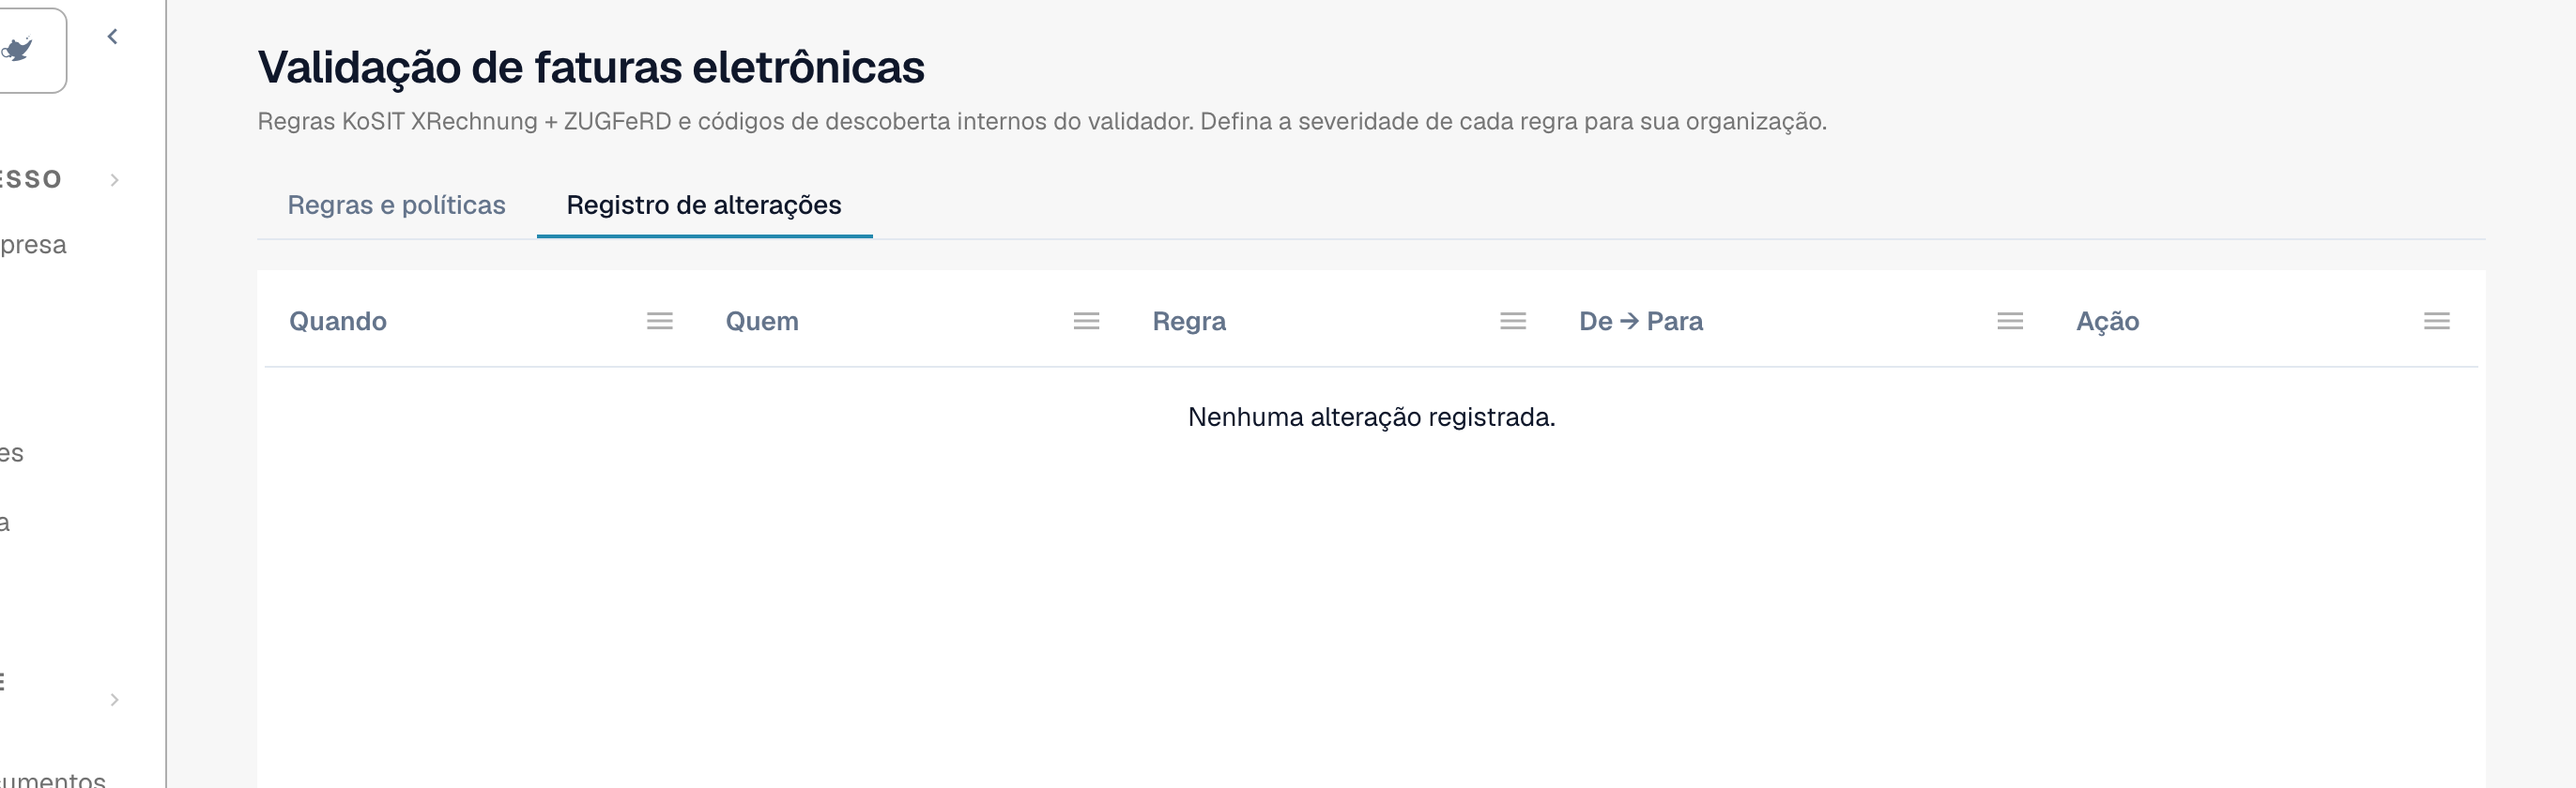
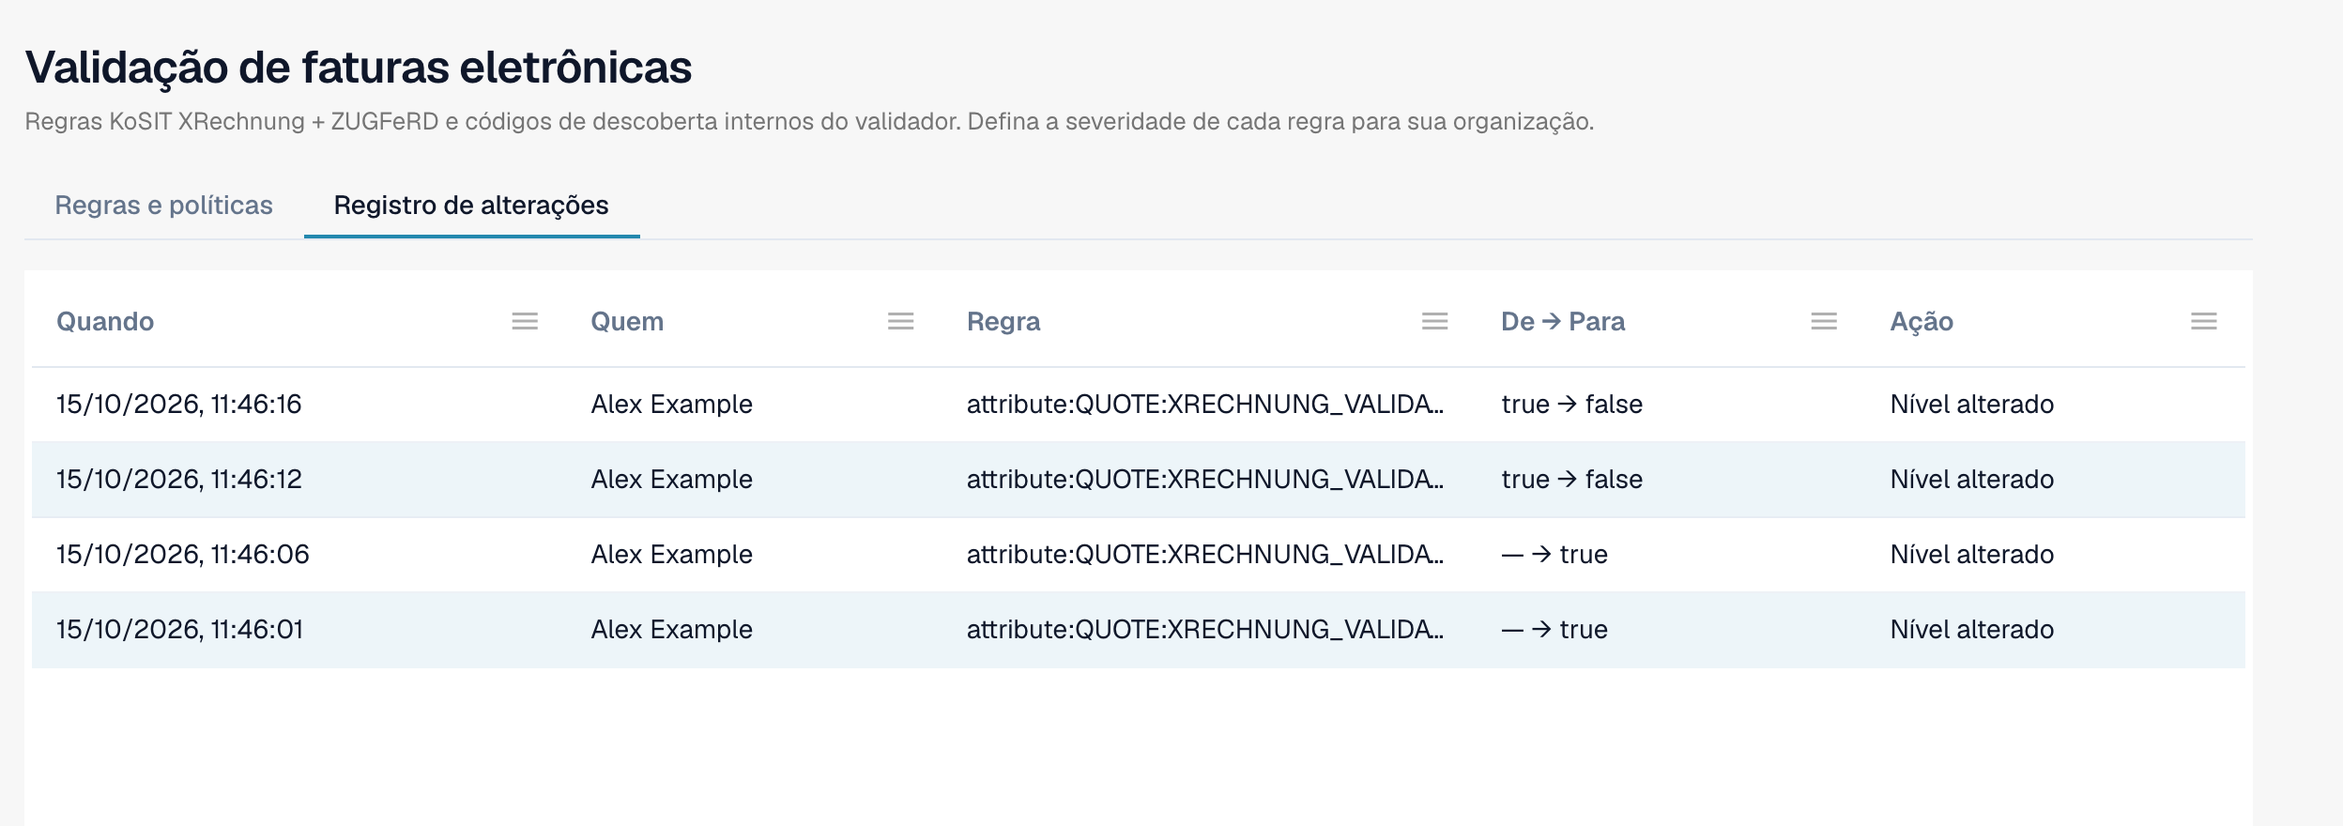
docs(pt): error screen page and change log screenshot (CORE-6410)
Claude-Session: https://claude.ai/code/session_01KNaeuhcTr3YU6A9NeVaSGs

diff --git a/readme/administration-and-setup/settings/document-processing/e-documents/validation-error-screen.md b/readme/administration-and-setup/settings/document-processing/e-documents/validation-error-screen.md
@@ -1,0 +1,52 @@
+# O ecrã de erro de uma fatura eletrónica rejeitada
+
+Quando carrega uma fatura eletrónica incorreta, o DocBits não a perde. O documento fica com o estado **Erro** e o ecrã de erro diz-lhe o que está errado, onde, e o que fazer a seguir. Esta página mostra dois exemplos: um ficheiro XML que não está bem formado e uma fatura que viola uma regra de negócio.
+
+> Uma fatura só fica com o estado **Erro** quando a validação está **ativada** e em **bloqueio** para o seu tipo de documento. Ver [Validação para cada tipo de documento](validation-per-document-type.md).
+
+## Exemplo 1: o ficheiro XML está danificado
+
+Um fornecedor envia um ficheiro XML em que uma etiqueta de fecho não corresponde à etiqueta de abertura. O ficheiro não pode ser lido, por isso o DocBits pára na primeira verificação, **L1 · Bem-formado**.
+
+<figure><img src="../../../../.gitbook/assets/einvoice-error-xml-malformed-pt.png" alt="O ecrã de erro de um ficheiro XML que não está bem formado: o XML à esquerda com a linha errada marcada, a explicação à direita"><figcaption><p>O ecrã de erro de um ficheiro XML danificado. A linha errada está marcada no XML. Ficheiro de exemplo com dados fictícios.</p></figcaption></figure>
+
+O ecrã tem dois lados:
+
+* **Esquerda: o ficheiro XML.** O DocBits mostra o ficheiro com números de linha. A linha com o problema está marcada a vermelho. Use os botões acima do ficheiro para copiar o XML ou abri-lo num novo separador.
+* **Direita: a explicação.** O cartão **Rejeitado por** indica a verificação que parou o ficheiro (aqui **L1 · Bem-formado**) e o código da regra (aqui `XML-PARSE`). Abaixo vê um título em linguagem simples (*XML is not well-formed*), uma explicação curta e o bloco **Próximo passo**.
+
+Selecione **Ver detalhes da validação** para abrir o [relatório de validação](validation-report.md) completo.
+
+<figure><img src="../../../../.gitbook/assets/einvoice-report-xml-malformed-pt.png" alt="O relatório de validação do ficheiro XML danificado com o resultado XML-PARSE"><figcaption><p>O relatório do ficheiro danificado: um erro no nível 1 Sintaxe, com a mensagem técnica e a posição</p></figcaption></figure>
+
+O relatório indica a posição exata (aqui linha 5, coluna 4081) e dá a mensagem técnica do analisador de XML. Selecione **Exibir em XML** para saltar para essa linha. A dica **Como consertar** diz-lhe para pedir ao remetente um ficheiro corrigido.
+
+## Exemplo 2: a fatura viola uma regra de negócio
+
+O XML está correto, mas falta um campo obrigatório. Por exemplo, o vendedor não pode ser identificado porque não existe identificador do vendedor, identificador de registo nem identificador de IVA (regra `BR-CO-26`).
+
+<figure><img src="../../../../.gitbook/assets/einvoice-error-view-pt.png" alt="O ecrã de erro de uma fatura que viola uma regra de negócio"><figcaption><p>O ecrã de erro de um erro de regra de negócio: a camada <strong>L3 · Regras de negócio</strong>, o código da regra e um próximo passo</p></figcaption></figure>
+
+Aqui o cartão indica a camada **L3 · Regras de negócio** e o código `BR-CO-26`. O relatório lista todos os resultados da fatura, ver [Relatório de validação](validation-report.md).
+
+## Os botões por baixo do cartão
+
+| Botão | O que faz |
+| --- | --- |
+| **Reiniciar processamento** | Executa de novo o processamento do documento, por exemplo depois de alterar uma definição. A verificação usa as definições atuais. |
+| **Visualizar DocFlow** | Mostra o fluxo de trabalho do documento. |
+| **Detalhes da cópia** | Copia os detalhes do erro, por exemplo para uma mensagem ao seu administrador. |
+| **Criar tíquete** | Abre um tíquete de suporte com os detalhes do erro. |
+
+Selecione **Mostrar detalhes técnicos** no cartão para ver a informação técnica em bruto.
+
+## O que fazer a seguir
+
+* **Erros:** peça ao remetente uma fatura corrigida ou [rejeite o documento](validation-next-step-and-reject.md). Uma fatura corrigida é um novo documento.
+* **Apenas avisos:** o documento não fica bloqueado. Pode continuar.
+
+## Páginas relacionadas
+
+* [Relatório de validação](validation-report.md): todos os resultados, nível a nível.
+* [Próximo passo e rejeitar um documento](validation-next-step-and-reject.md)
+* [Validação para cada tipo de documento](validation-per-document-type.md): ative a validação e defina o bloqueio.

diff --git a/readme/administration-and-setup/settings/document-processing/e-documents/validation-rules.md b/readme/administration-and-setup/settings/document-processing/e-documents/validation-rules.md
@@ -14,5 +14,6 @@ A página **Validação de faturas eletrônicas** (**Definições → Documentos
 | [Gravidade das regras](validation-rule-severities.md) | A tabela de regras: altere a gravidade de cada regra para a sua organização. | Administradores da organização |
 | [Validação para cada tipo de documento](validation-per-document-type.md) | Ative a validação (**Habilitado**) e decida se uma verificação falhada pára o documento (**Bloqueio**). Cada alteração precisa de confirmação. | Administradores da organização |
 | [Registo de alterações](validation-change-log.md) | Todas as alterações das definições: quando, quem, que regra, de → para. | Administradores da organização |
+| [O ecrã de erro de uma fatura eletrónica rejeitada](validation-error-screen.md) | O que o utilizador vê no documento quando uma fatura é rejeitada: o XML com a linha errada marcada, a camada e o código da regra, os botões e o próximo passo. | Todos os que processam faturas |
 | [Relatório de validação](validation-report.md) | O que o utilizador vê quando uma fatura falha: os resultados em linguagem simples. Abre-se a partir do documento, não desta página. | Todos os que processam faturas |
 | [Próximo passo e rejeitar um documento](validation-next-step-and-reject.md) | O que fazer depois de ler o relatório, transferências do relatório e **Rejeitar documento**. | Todos os que processam faturas |

diff --git a/readme/SUMMARY.md b/readme/SUMMARY.md
@@ -441,6 +441,7 @@
         * [Gravidade das regras](administration-and-setup/settings/document-processing/e-documents/validation-rule-severities.md)
         * [Validação para cada tipo de documento](administration-and-setup/settings/document-processing/e-documents/validation-per-document-type.md)
         * [Registo de alterações](administration-and-setup/settings/document-processing/e-documents/validation-change-log.md)
+        * [O ecrã de erro de uma fatura eletrónica rejeitada](administration-and-setup/settings/document-processing/e-documents/validation-error-screen.md)
         * [Relatório de validação](administration-and-setup/settings/document-processing/e-documents/validation-report.md)
         * [Próximo passo e rejeitar um documento](administration-and-setup/settings/document-processing/e-documents/validation-next-step-and-reject.md)
       * [Encaminhamento de notificações](administration-and-setup/settings/document-processing/e-documents/notification-routing.md)

diff --git a/readme/administration-and-setup/settings/document-processing/e-documents/validation-report.md b/readme/administration-and-setup/settings/document-processing/e-documents/validation-report.md
@@ -1,6 +1,6 @@
 # Relatório de validação
 
-Quando o DocBits rejeita uma fatura eletrónica, pode ler exatamente porquê. O **relatório de validação** lista cada resultado em linguagem simples, diz-lhe o que corrigir e mostra o próximo passo. Abre-o a partir do documento, não das definições.
+Quando o DocBits rejeita uma fatura eletrónica, pode ler exatamente porquê. O **relatório de validação** lista cada resultado em linguagem simples, diz-lhe o que corrigir e mostra o próximo passo. Abre-o a partir do documento, não das definições. O ecrã onde o encontra está descrito em [O ecrã de erro de uma fatura eletrónica rejeitada](validation-error-screen.md).
 
 Esta página é para quem processa faturas. Os administradores definem as regras na página [Validação de faturas eletrônicas](validation-rules.md) e escolhem, por tipo de documento, se uma verificação falhada bloqueia a fatura, ver [Validação para cada tipo de documento](validation-per-document-type.md).
 

diff --git a/readme/administration-and-setup/settings/document-processing/e-documents/validation-change-log.md b/readme/administration-and-setup/settings/document-processing/e-documents/validation-change-log.md
@@ -4,7 +4,7 @@ O **Registo de alterações** regista todas as alterações das definições de 
 
 Abra o separador **Registro de alterações**, ao lado de **Regras e políticas**.
 
-<figure><img src="../../../../.gitbook/assets/einvoice-validation-change-log-pt.png" alt="O separador Registro de alterações com as colunas Quando, Quem, Regra, De → Para e Ação"><figcaption><p>O registo de alterações de uma organização ainda sem alterações</p></figcaption></figure>
+<figure><img src="../../../../.gitbook/assets/einvoice-validation-change-log-pt.png" alt="O separador Registro de alterações com as colunas Quando, Quem, Regra, De → Para e Ação"><figcaption><p>O registo de alterações com quatro entradas de exemplo. O nome do utilizador foi substituído por um nome de exemplo.</p></figcaption></figure>
 
 | Coluna | O que mostra |
 | --- | --- |
